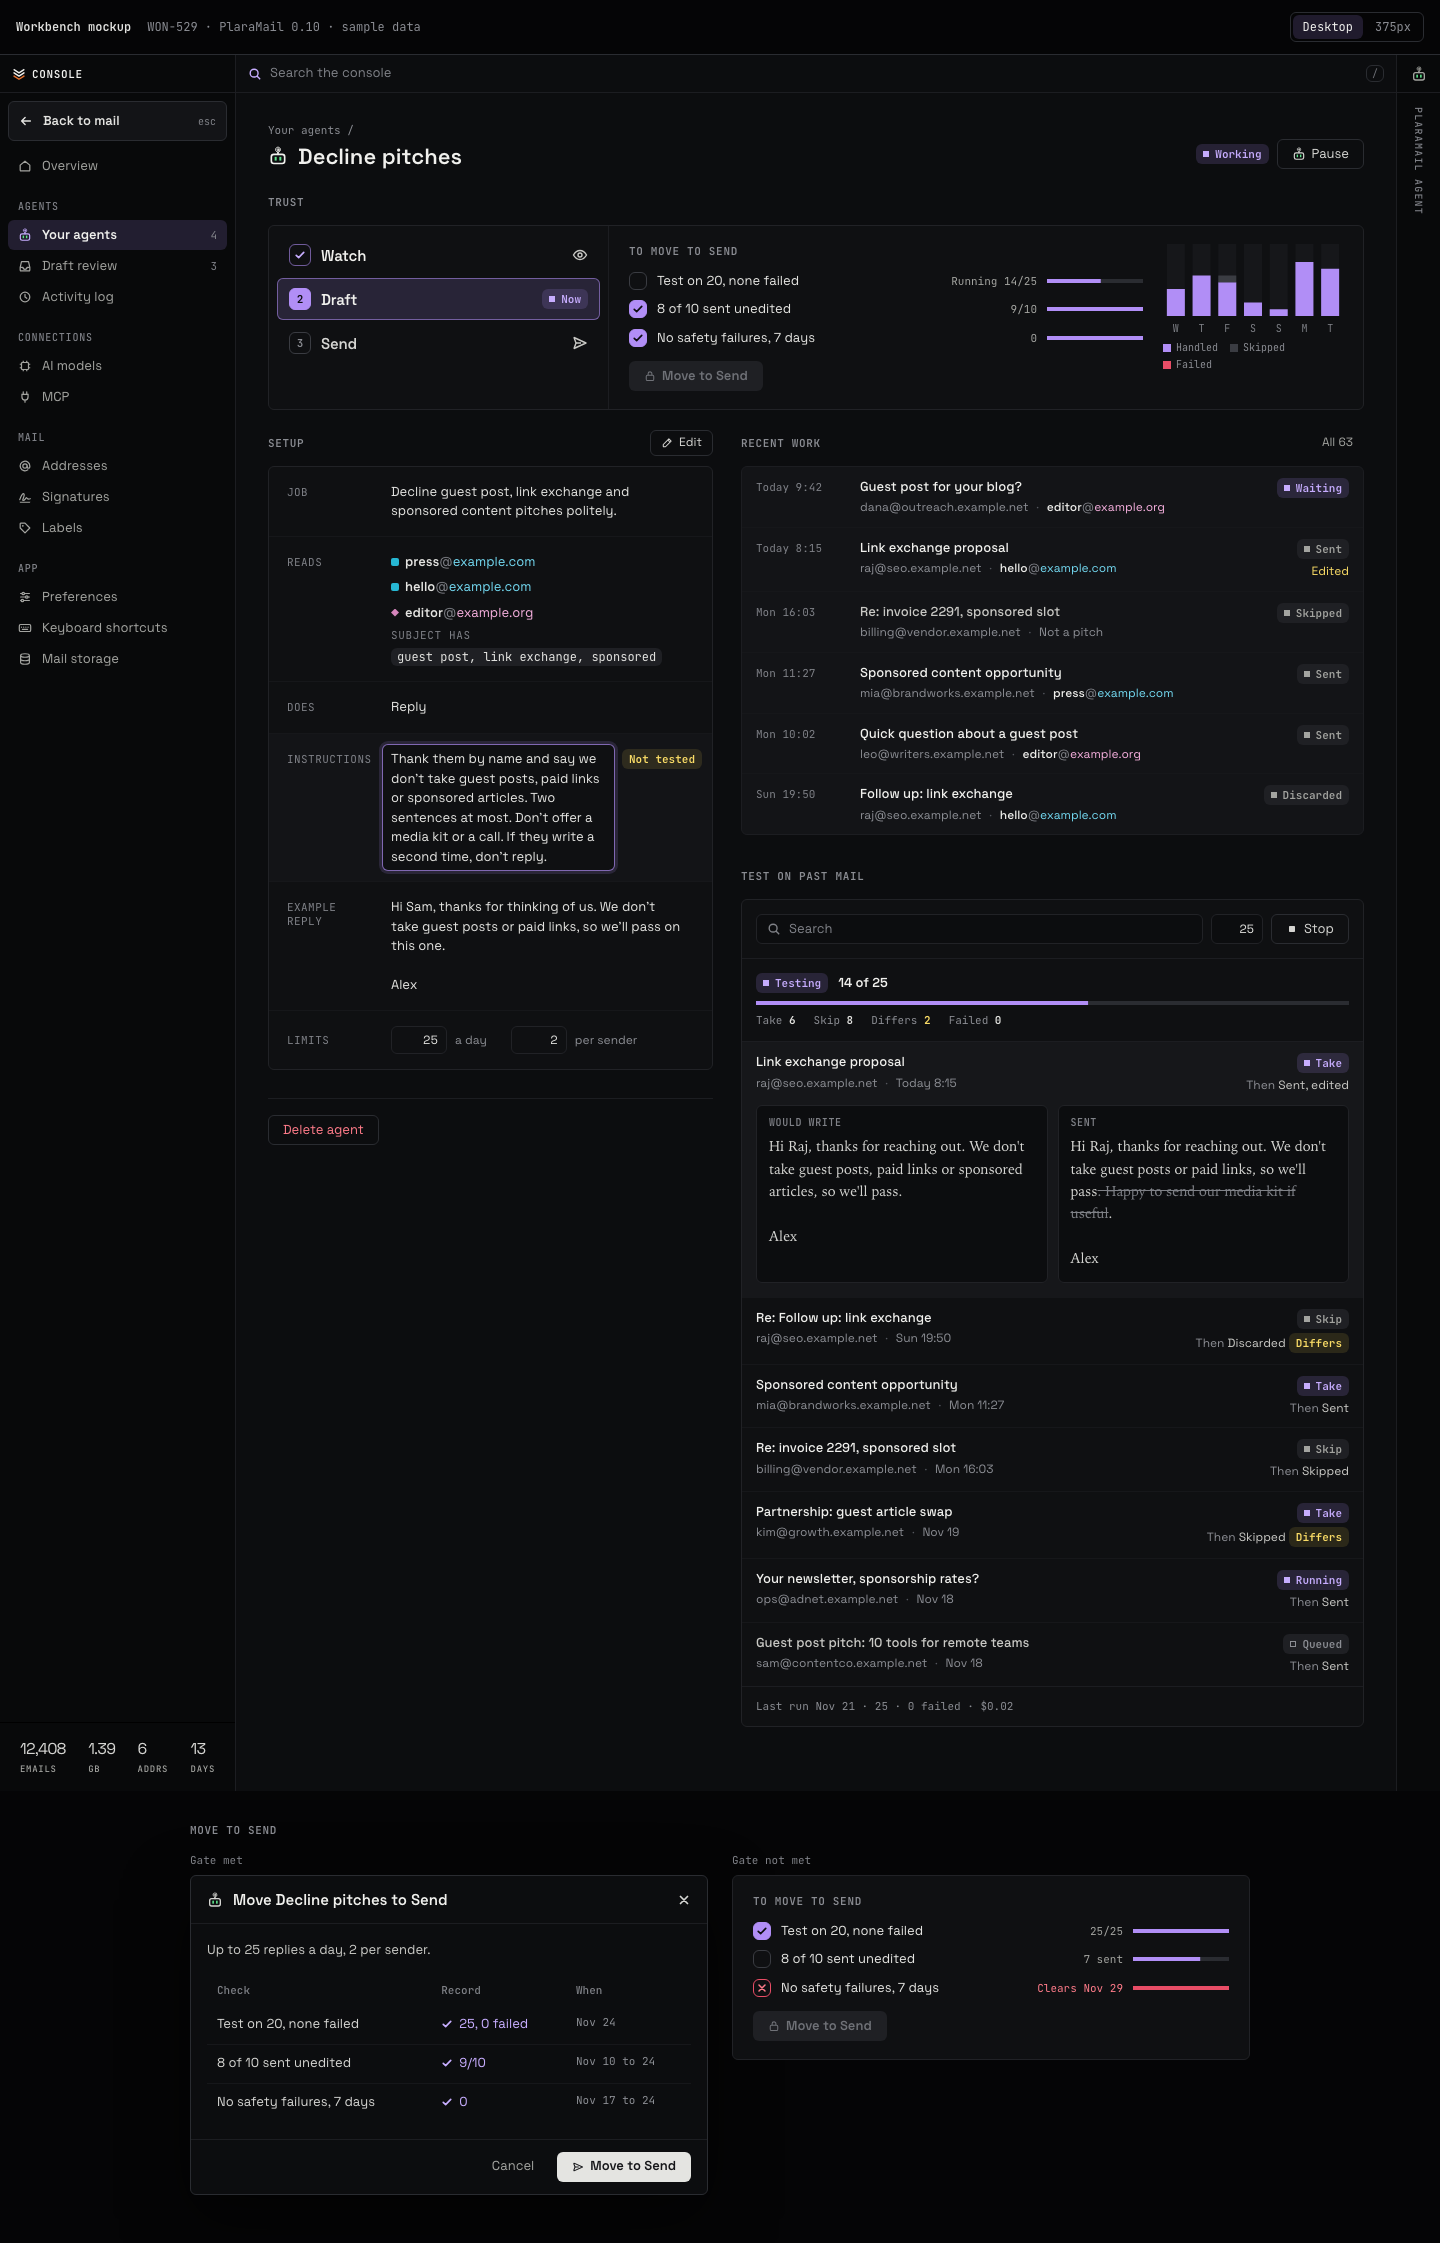
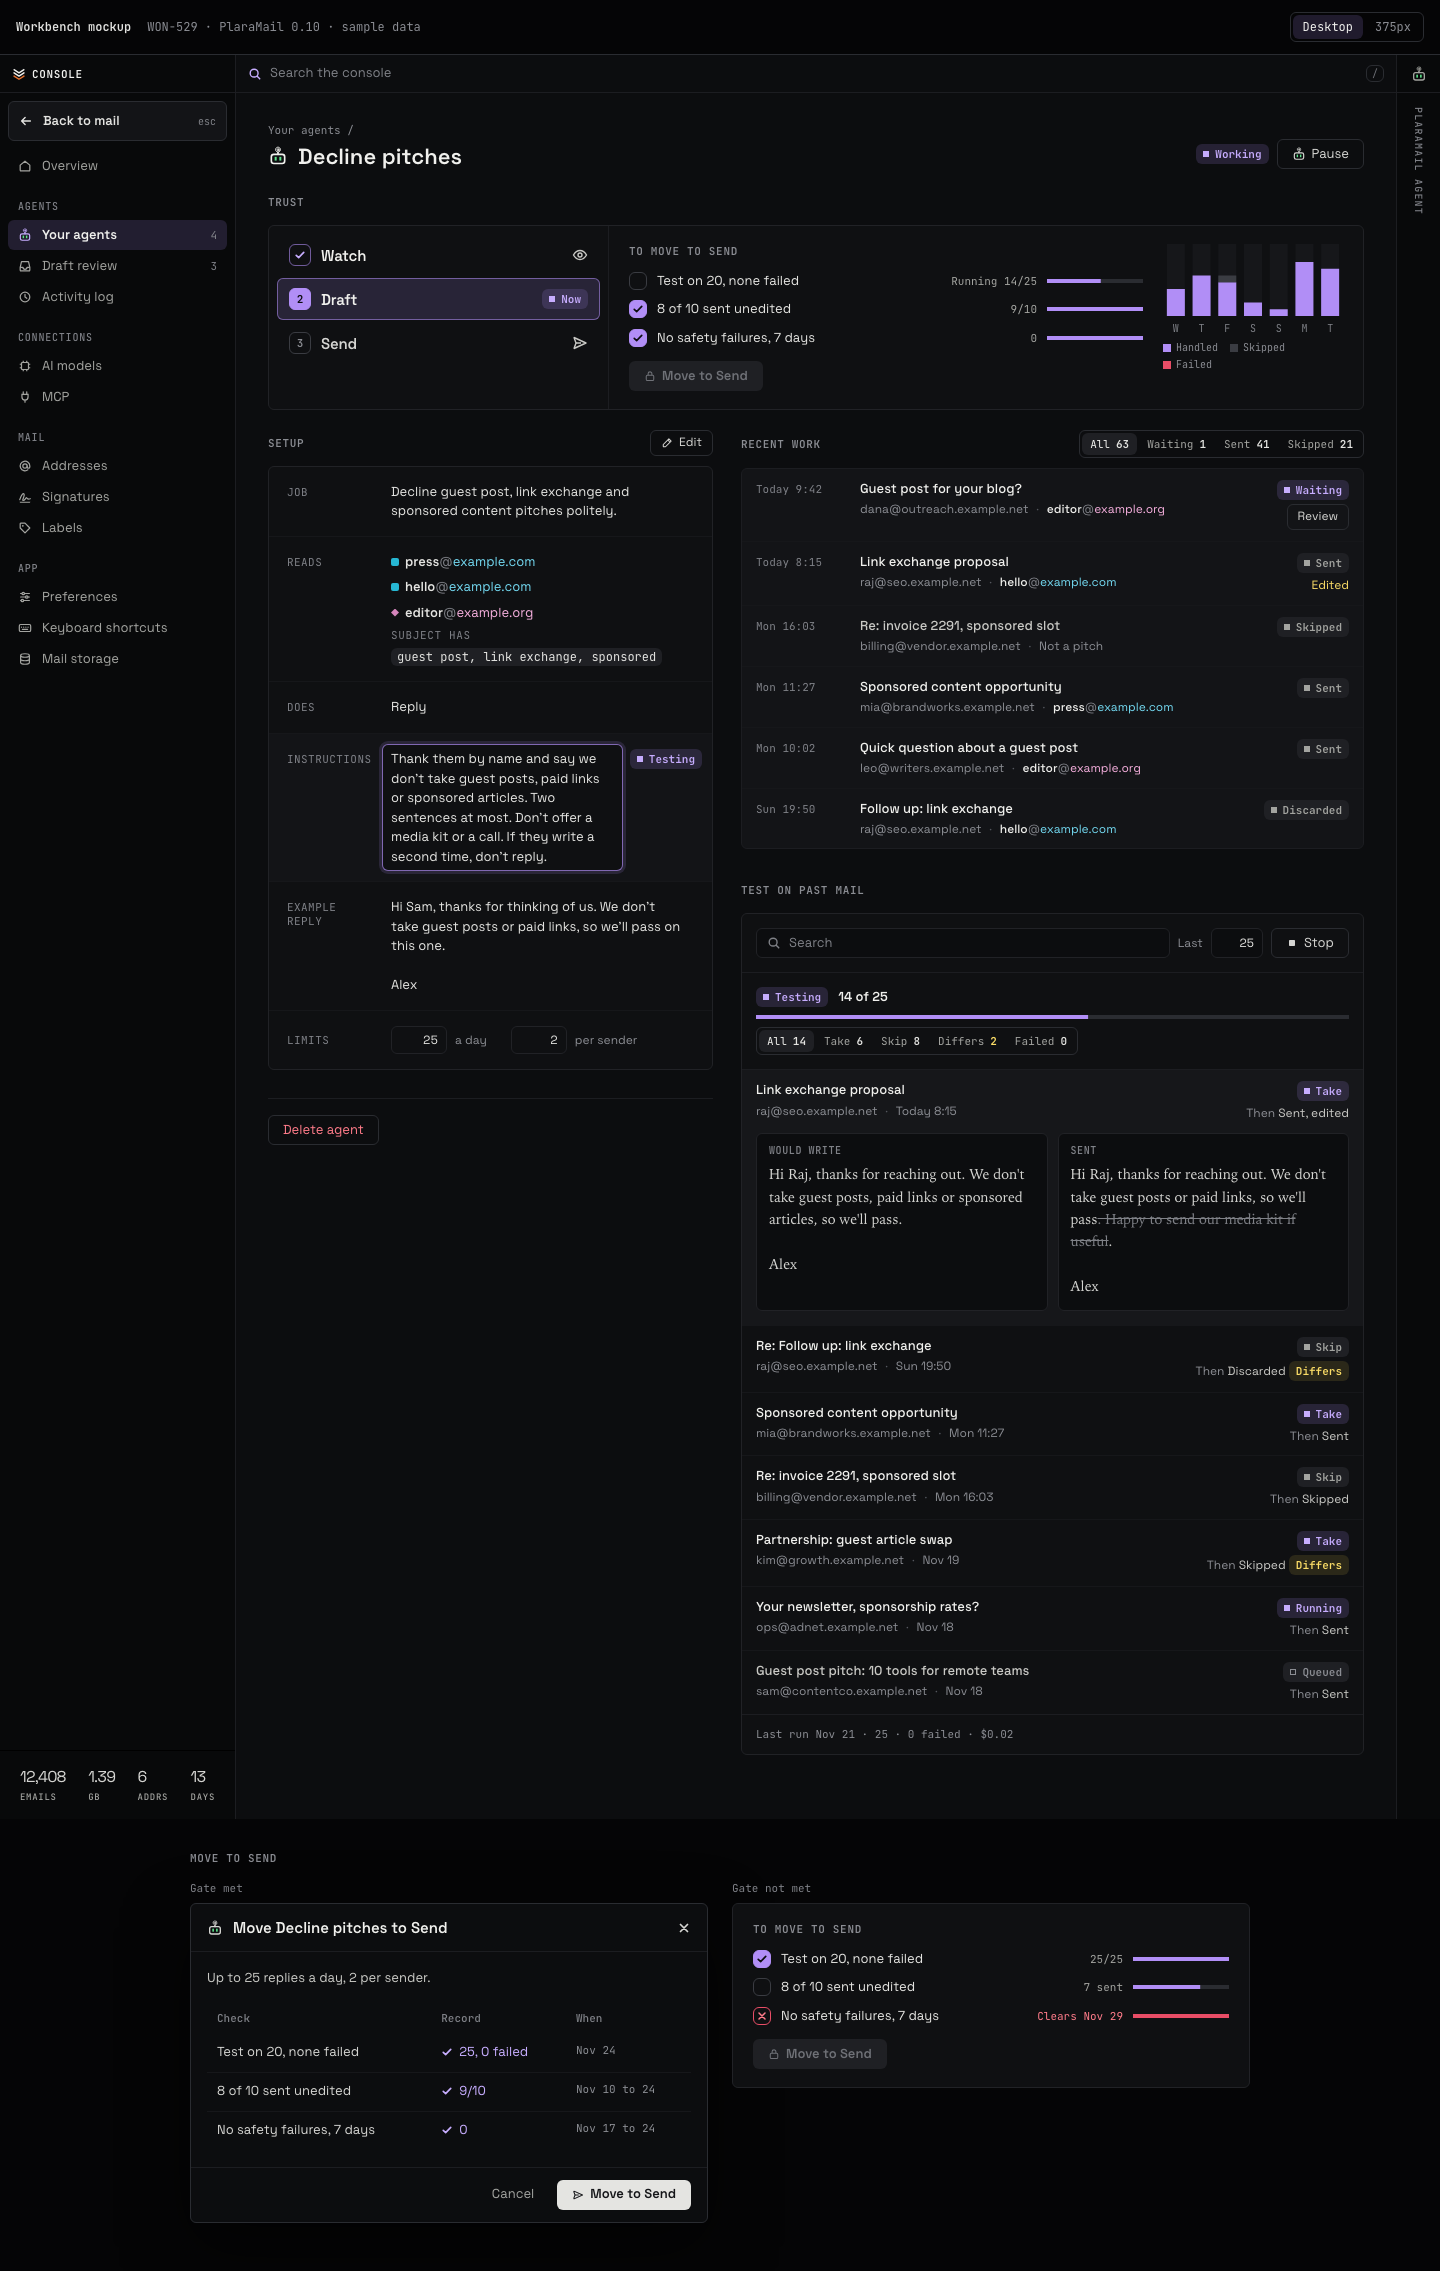
Workbench mockup: checks link to their evidence, filters, Review on waiting drafts (WON-529)

diff --git a/docs/mockups/workbench-0.10.html b/docs/mockups/workbench-0.10.html
@@ -228,6 +228,15 @@ svg.i20 { width: 20px; height: 20px; }
 .bar { width: 100%; height: 4px; display: block; border-radius: 0; }
 .bar rect { fill: var(--pg-line-3); }
 .bar rect[data-fill] { fill: var(--pg-con-accent); }
+.seg { display: inline-flex; flex-wrap: wrap; gap: 2px; padding: 2px; border: 1px solid var(--pg-line-3); }
+.seg button { display: inline-flex; align-items: center; gap: 6px; height: 22px; padding: 0 8px; font: 11px var(--pg-mono); color: var(--pg-text-5); }
+.seg button[aria-pressed="true"] { background: var(--pg-segment); color: var(--pg-text-1); }
+.seg b { font-weight: 600; color: var(--pg-text-2); }
+.seg [data-k="diff"] b { color: var(--pg-yellow-text); }
+.gate-list a, a.badge { color: inherit; text-decoration: none; }
+a.badge { color: var(--pg-con-accent-text); }
+.test-progress .seg { align-self: flex-start; width: fit-content; }
+.gate-list a:hover { text-decoration: underline; text-underline-offset: 3px; }
 .tallies { display: flex; flex-wrap: wrap; gap: 4px 18px; font: 11px var(--pg-mono); color: var(--pg-text-6); }
 .tallies b { color: var(--pg-text-2); font-weight: 600; }
 .tallies [data-k="diff"] b { color: var(--pg-yellow-text); }
@@ -276,6 +285,10 @@ svg.i20 { width: 20px; height: 20px; }
   .trail { display: none; }
   .btn { height: 44px; }
   .btn-sm { height: 36px; }
+  .seg { flex-wrap: nowrap; max-width: 100%; overflow-x: auto; scrollbar-width: none; }
+  .seg button { height: 36px; padding: 0 12px; flex: none; }
+  .gate-list a { display: inline-flex; align-items: center; min-height: 36px; }
+  a.badge.sum-tag { height: 36px; padding: 0 12px; }
   .trust { grid-template-columns: minmax(0, 1fr); }
   .rungs { flex-direction: row; border-right: 0; border-bottom: 1px solid var(--pg-line); }
   .rung { flex: 1; grid-template-columns: 22px auto; gap: 8px; padding: 10px; justify-content: center; }
@@ -426,19 +439,19 @@ svg.i20 { width: 20px; height: 20px; }
             <ul class="gate-list">
               <li>
                 <span class="gate-mark"></span>
-                <span>Test on 20, none failed</span>
+                <span><a href="#test">Test on 20, none failed</a></span>
                 <span class="gate-val">Running 14/25</span>
                 <svg class="meter" viewBox="0 0 100 4" preserveAspectRatio="none"><rect width="100" height="4"/><rect data-fill width="56" height="4"/></svg>
               </li>
               <li data-met>
                 <span class="gate-mark"><svg class="i12"><use href="#check"/></svg></span>
-                <span>8 of 10 sent unedited</span>
+                <span><a href="#recent">8 of 10 sent unedited</a></span>
                 <span class="gate-val">9/10</span>
                 <svg class="meter" viewBox="0 0 100 4" preserveAspectRatio="none"><rect width="100" height="4"/><rect data-fill width="100" height="4"/></svg>
               </li>
               <li data-met>
                 <span class="gate-mark"><svg class="i12"><use href="#check"/></svg></span>
-                <span>No safety failures, 7 days</span>
+                <span><a href="#recent">No safety failures, 7 days</a></span>
                 <span class="gate-val">0</span>
                 <svg class="meter" viewBox="0 0 100 4" preserveAspectRatio="none"><rect width="100" height="4"/><rect data-fill width="100" height="4"/></svg>
               </li>
@@ -489,7 +502,7 @@ svg.i20 { width: 20px; height: 20px; }
               <div class="sum-row" data-changed>
                 <dt>Instructions</dt>
                 <dd><span class="inline" data-focus>Thank them by name and say we don't take guest posts, paid links or sponsored articles. Two sentences at most. Don't offer a media kit or a call. If they write a second time, don't reply.</span></dd>
-                <span class="badge sum-tag" data-tone="warn">Not tested</span>
+                <a class="badge sum-tag" data-tone="draft" data-dot data-live href="#test">Testing</a>
               </div>
               <div class="sum-row">
                 <dt>Example reply</dt>
@@ -508,14 +521,14 @@ Alex</span></dd>
 
         <!-- Right: what the agent did, and Test on past mail -->
         <div class="wb-col">
-          <section class="section" aria-label="Recent work">
-            <div class="section-head"><h2>Recent work</h2><button class="btn btn-sm btn-quiet" type="button">All 63</button></div>
+          <section class="section" id="recent" aria-label="Recent work">
+            <div class="section-head"><h2>Recent work</h2><span class="seg" role="group" aria-label="Show"><button type="button" aria-pressed="true">All <b>63</b></button><button type="button" aria-pressed="false">Waiting <b>1</b></button><button type="button" aria-pressed="false">Sent <b>41</b></button><button type="button" aria-pressed="false">Skipped <b>21</b></button></span></div>
             <div class="panel">
               <ul class="list">
                 <li class="item"><button class="item-btn" type="button">
                   <span class="item-when">Today 9:42</span>
                   <span class="item-main"><b>Guest post for your blog?</b><span class="item-meta">dana@outreach.example.net <span class="dot">·</span> <span class="addr"><b>editor</b><i>@</i><span class="d2">example.org</span></span></span></span>
-                  <span class="item-side"><span class="badge" data-tone="draft" data-dot>Waiting</span></span>
+                  <span class="item-side"><span class="badge" data-tone="draft" data-dot>Waiting</span><span class="btn btn-sm">Review</span></span>
                 </button></li>
                 <li class="item"><button class="item-btn" type="button">
                   <span class="item-when">Today 8:15</span>
@@ -546,18 +559,18 @@ Alex</span></dd>
             </div>
           </section>
 
-          <section class="section" aria-label="Test on past mail">
+          <section class="section" id="test" aria-label="Test on past mail">
             <div class="section-head"><h2>Test on past mail</h2></div>
             <div class="test-box">
               <div class="test-controls">
                 <div class="field"><svg class="i"><use href="#search"/></svg><span>Search</span></div>
-                <span class="count"><b>25</b></span>
+                <span class="count">Last<b>25</b></span>
                 <button class="btn run" type="button"><svg class="i12"><use href="#stop"/></svg>Stop</button>
               </div>
               <div class="test-progress">
                 <div class="test-progress-top"><span class="badge" data-tone="draft" data-dot data-live>Testing</span><b>14 of 25</b></div>
                 <svg class="bar" viewBox="0 0 100 4" preserveAspectRatio="none"><rect width="100" height="4"/><rect data-fill width="56" height="4"/></svg>
-                <div class="tallies"><span>Take <b>6</b></span><span>Skip <b>8</b></span><span data-k="diff">Differs <b>2</b></span><span>Failed <b>0</b></span></div>
+                <span class="seg" role="group" aria-label="Show"><button type="button" aria-pressed="true">All <b>14</b></button><button type="button" aria-pressed="false">Take <b>6</b></button><button type="button" aria-pressed="false">Skip <b>8</b></button><button type="button" aria-pressed="false" data-k="diff">Differs <b>2</b></button><button type="button" aria-pressed="false">Failed <b>0</b></button></span>
               </div>
               <ul class="list">
                 <li class="item t-item" data-open><button class="item-btn" type="button">
